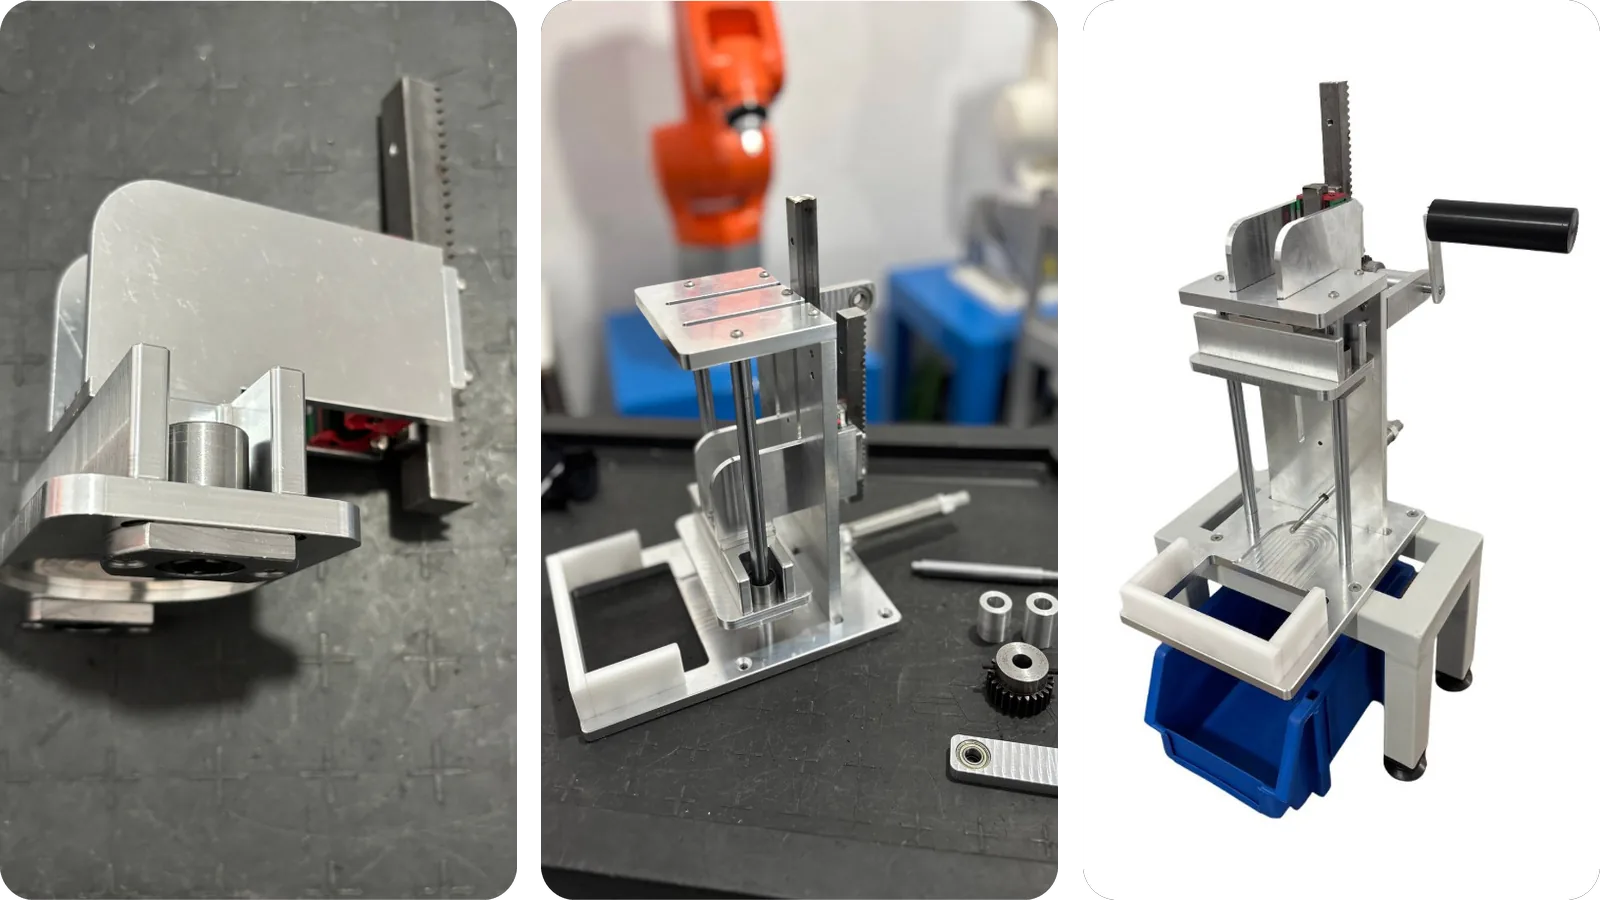
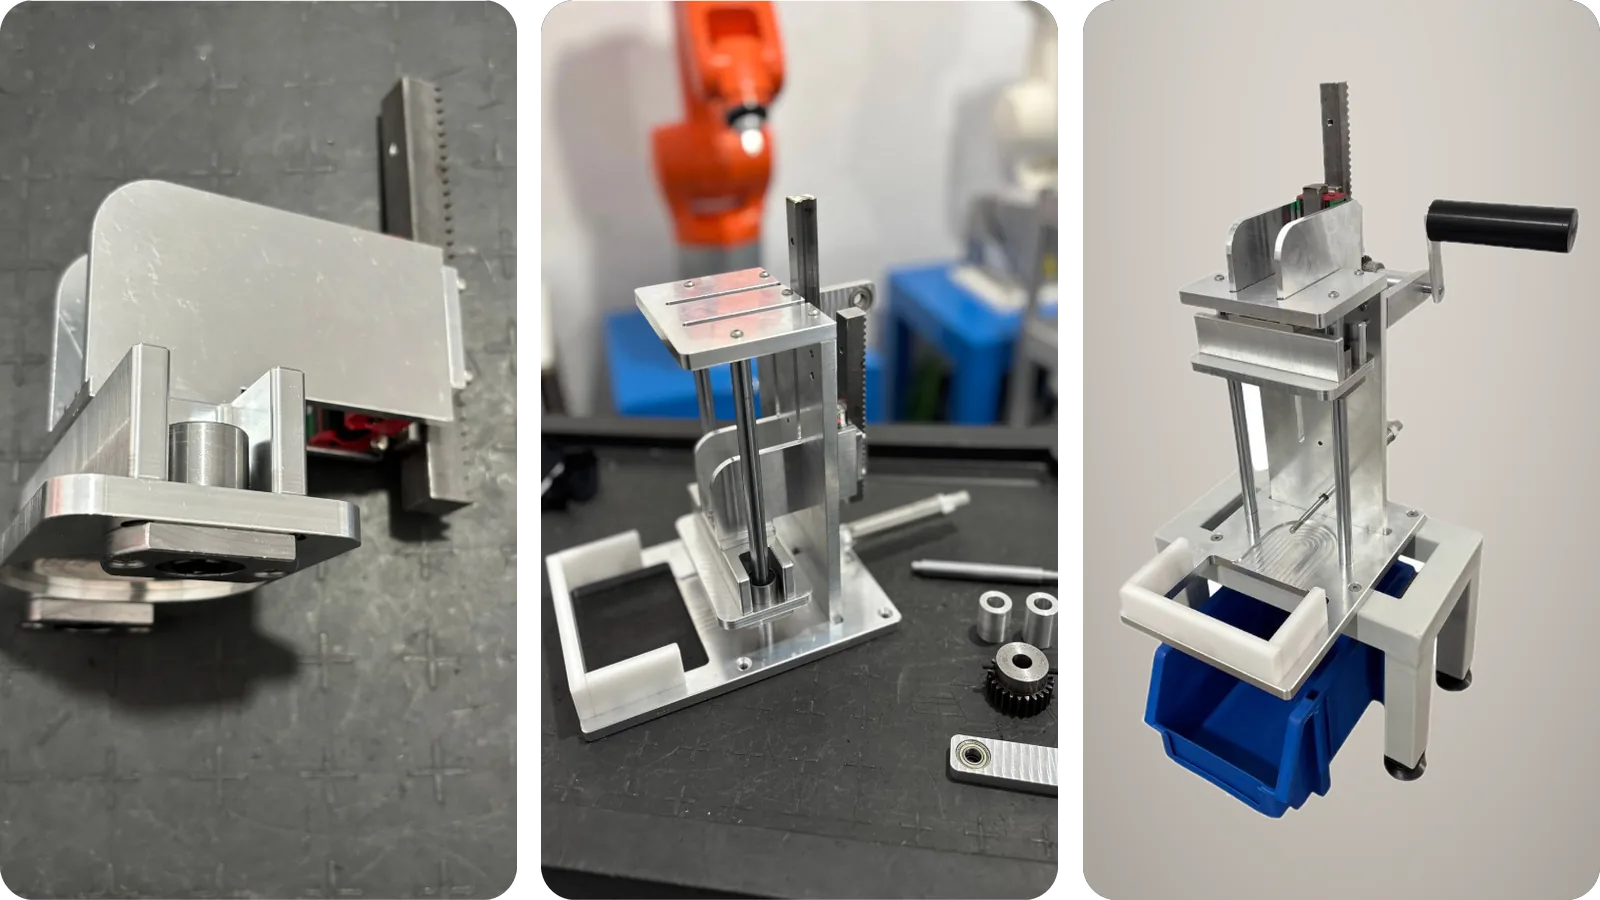
Carrousel projet 1 : flèches au survol, défilement auto avec pause, fond neutre
- flèches visibles uniquement quand le curseur est sur les médias (masquées sur écrans tactiles : balayage + points)
- les slides de 3 photos défilent seules (5,5 s) ; curseur posé dessus = elles restent
- les 3 vidéos jouent une fois puis retour au début ; curseur posé dessus = boucle
- photo de la machine : fond blanc remplacé par un gris chaud neutre en dégradé léger (détourage propre)

Claude-Session: https://claude.ai/code/session_01BLhgvD1zSSkDCUHE1qvZTu

Changed region(s): [[0.6562, 0.0, 1.0, 1.0]]

diff --git a/js/projects.js b/js/projects.js
@@ -1,11 +1,14 @@
 /* projects.js — photo / video carousel of the realized project.
-   Photos auto-advance; the video slide (3 films side by side) plays in a loop until the visitor moves on.
-   Arrows, swipe, dots; pauses when the tab is hidden. */
+   • Photo slides (3 photos each) advance by themselves; the video slide (3 films) plays once, then the carousel
+     goes back to the start.
+   • With a mouse, resting the cursor on the media freezes everything: photos stay, videos loop.
+   • Arrows only appear while the cursor is over the media (css); swipe and dots work everywhere. */
 (function () {
   'use strict';
   var box = document.getElementById('realizedMedia');
   if (!box) return;
 
+  var stage = box.querySelector('.media-stage') || box;
   var track = box.querySelector('.media-track');
   var slides = Array.prototype.slice.call(track.children);
   var prev = box.querySelector('.media-nav.prev');
@@ -13,49 +16,66 @@
   var videos = Array.prototype.slice.call(box.querySelectorAll('video'));
   var master = videos[0];
   var dotsBox = box.querySelector('.media-dots');
-  var AUTO_MS = 4500;
-  var index = 0, auto = true, timer = null;
+  var PHOTO_MS = 5500;                       // time each photo slide stays on screen
+  var index = 0, timer = null, hovering = false;
 
-  // dots
   var dots = slides.map(function (_, i) {
     var b = document.createElement('button');
     b.type = 'button'; b.className = 'media-dot'; b.setAttribute('aria-label', (i + 1) + ' / ' + slides.length);
-    b.addEventListener('click', function () { stopAuto(); show(i); });
+    b.addEventListener('click', function () { show(i); });
     dotsBox.appendChild(b); return b;
   });
 
   function isVideo(i) { return !!slides[i].querySelector('video'); }
-  function clearTimer() { if (timer) { clearInterval(timer); timer = null; } }
+  function clearTimer() { if (timer) { clearTimeout(timer); timer = null; } }
+
   function playVideos() {
-    videos.forEach(function (v) { v.currentTime = 0; v.muted = true; v.loop = true; var p = v.play(); if (p && p.catch) p.catch(function () {}); });
+    videos.forEach(function (v) { v.currentTime = 0; v.muted = true; v.loop = false; var p = v.play(); if (p && p.catch) p.catch(function () {}); });
   }
   function pauseVideos() { videos.forEach(function (v) { v.pause(); }); }
-  // keep the three films in step after each loop
-  if (master) master.addEventListener('timeupdate', function () {
-    videos.forEach(function (v) { if (v !== master && Math.abs(v.currentTime - master.currentTime) > 0.25) v.currentTime = master.currentTime; });
+
+  // the three films share one length: when they are all over, loop if the cursor rests on them, otherwise start over
+  videos.forEach(function (v) {
+    v.addEventListener('ended', function () {
+      if (!videos.every(function (x) { return x.ended; })) return;
+      if (hovering) playVideos(); else show(index + 1);
+    });
   });
+  // keep the films in step
+  if (master) master.addEventListener('timeupdate', function () {
+    videos.forEach(function (v) { if (v !== master && !v.ended && Math.abs(v.currentTime - master.currentTime) > 0.25) v.currentTime = master.currentTime; });
+  });
+
+  function schedule() {                      // photos only: next slide after PHOTO_MS, unless the cursor rests on them
+    clearTimer();
+    if (isVideo(index)) return;
+    timer = setTimeout(function () { if (hovering) schedule(); else show(index + 1); }, PHOTO_MS);
+  }
 
   function show(i) {
     pauseVideos();
     index = (i + slides.length) % slides.length;
     track.style.transform = 'translateX(-' + index * 100 + '%)';
     dots.forEach(function (d, n) { d.classList.toggle('active', n === index); });
-    clearTimer();
-
-    if (isVideo(index)) playVideos();            // stays here, looping, until the visitor moves on
-    else if (auto) timer = setInterval(function () { show(index + 1); }, AUTO_MS);
+    if (isVideo(index)) { clearTimer(); playVideos(); } else schedule();
   }
-  function stopAuto() { auto = false; clearTimer(); }
 
-  next.addEventListener('click', function () { stopAuto(); show(index + 1); });
-  prev.addEventListener('click', function () { stopAuto(); show(index - 1); });
+  next.addEventListener('click', function () { show(index + 1); });
+  prev.addEventListener('click', function () { show(index - 1); });
+
+  // mouse only: touch has no "resting cursor"
+  stage.addEventListener('pointerenter', function (e) { if (e.pointerType === 'mouse') hovering = true; });
+  stage.addEventListener('pointerleave', function (e) {
+    if (e.pointerType !== 'mouse') return;
+    hovering = false; schedule();
+  });
 
   var startX = null;
   box.addEventListener('touchstart', function (e) { startX = e.touches[0].clientX; }, { passive: true });
   box.addEventListener('touchend', function (e) {
     if (startX == null) return;
     var dx = e.changedTouches[0].clientX - startX; startX = null;
-    if (Math.abs(dx) > 40) { stopAuto(); show(index + (dx < 0 ? 1 : -1)); }
+    if (Math.abs(dx) > 40) show(index + (dx < 0 ? 1 : -1));
   }, { passive: true });
 
   document.addEventListener('visibilitychange', function () {

diff --git a/css/subpage.css b/css/subpage.css
@@ -93,10 +93,13 @@ html[dir="rtl"] .btn-download{font-family:var(--font-sans);font-style:normal}
   font-size:22px;line-height:1;padding:0 0 3px;cursor:pointer;color:#fff;
   background:rgba(11,95,165,.55);border:1px solid rgba(255,255,255,.4);
   backdrop-filter:blur(10px) saturate(160%);-webkit-backdrop-filter:blur(10px) saturate(160%);
-  transition:background .2s,transform .2s;
+  transition:background .2s,transform .2s,opacity .3s;
 }
 .media-nav:hover{background:rgba(11,95,165,.8)}
 .media-nav:active{transform:translateY(-50%) scale(.94)}
+.media-nav{opacity:0;pointer-events:none}                       /* arrows only while the cursor is over the media */
+.media-stage:hover .media-nav,.media-stage:focus-within .media-nav{opacity:1;pointer-events:auto}
+@media (hover:none){.media-nav{display:none}}                  /* touch screens: swipe + dots */
 .media-nav.prev{left:12px}
 .media-nav.next{right:12px}
 .media-dots{display:flex;justify-content:center;align-items:center;gap:7px;height:42px}

diff --git a/projects/index.html b/projects/index.html
@@ -27,9 +27,9 @@
 
 <script src="../js/boot.js?v=e29205c5"></script>
 <link rel="stylesheet" href="../css/site.css?v=791fc425">
-<link rel="stylesheet" href="../css/subpage.css?v=17389485">
+<link rel="stylesheet" href="../css/subpage.css?v=1de864df">
 <script src="../js/site.js?v=bd666b48" defer></script>
-<script src="../js/projects.js?v=085b9738" defer></script>
+<script src="../js/projects.js?v=1e9f79f5" defer></script>
 </head>
 <body data-page="projects">
 <script src="../js/layout.js?v=0368468a" data-slot="header"></script>

diff --git a/contact/index.html b/contact/index.html
@@ -27,7 +27,7 @@
 
 <script src="../js/boot.js?v=e29205c5"></script>
 <link rel="stylesheet" href="../css/site.css?v=791fc425">
-<link rel="stylesheet" href="../css/subpage.css?v=17389485">
+<link rel="stylesheet" href="../css/subpage.css?v=1de864df">
 <script src="../js/site.js?v=bd666b48" defer></script>
 <script src="../js/config.js?v=f036c333" defer></script>
 <script src="../js/contact.js?v=6d35567c" defer></script>

diff --git a/about/index.html b/about/index.html
@@ -27,7 +27,7 @@
 
 <script src="../js/boot.js?v=e29205c5"></script>
 <link rel="stylesheet" href="../css/site.css?v=791fc425">
-<link rel="stylesheet" href="../css/subpage.css?v=17389485">
+<link rel="stylesheet" href="../css/subpage.css?v=1de864df">
 <script src="../js/site.js?v=bd666b48" defer></script>
 <script src="../js/config.js?v=f036c333" defer></script>
 <script src="../js/about.js?v=58eb9fde" defer></script>

diff --git a/skills/index.html b/skills/index.html
@@ -27,7 +27,7 @@
 
 <script src="../js/boot.js?v=e29205c5"></script>
 <link rel="stylesheet" href="../css/site.css?v=791fc425">
-<link rel="stylesheet" href="../css/subpage.css?v=17389485">
+<link rel="stylesheet" href="../css/subpage.css?v=1de864df">
 <script src="../js/site.js?v=bd666b48" defer></script>
 </head>
 <body data-page="skills">
